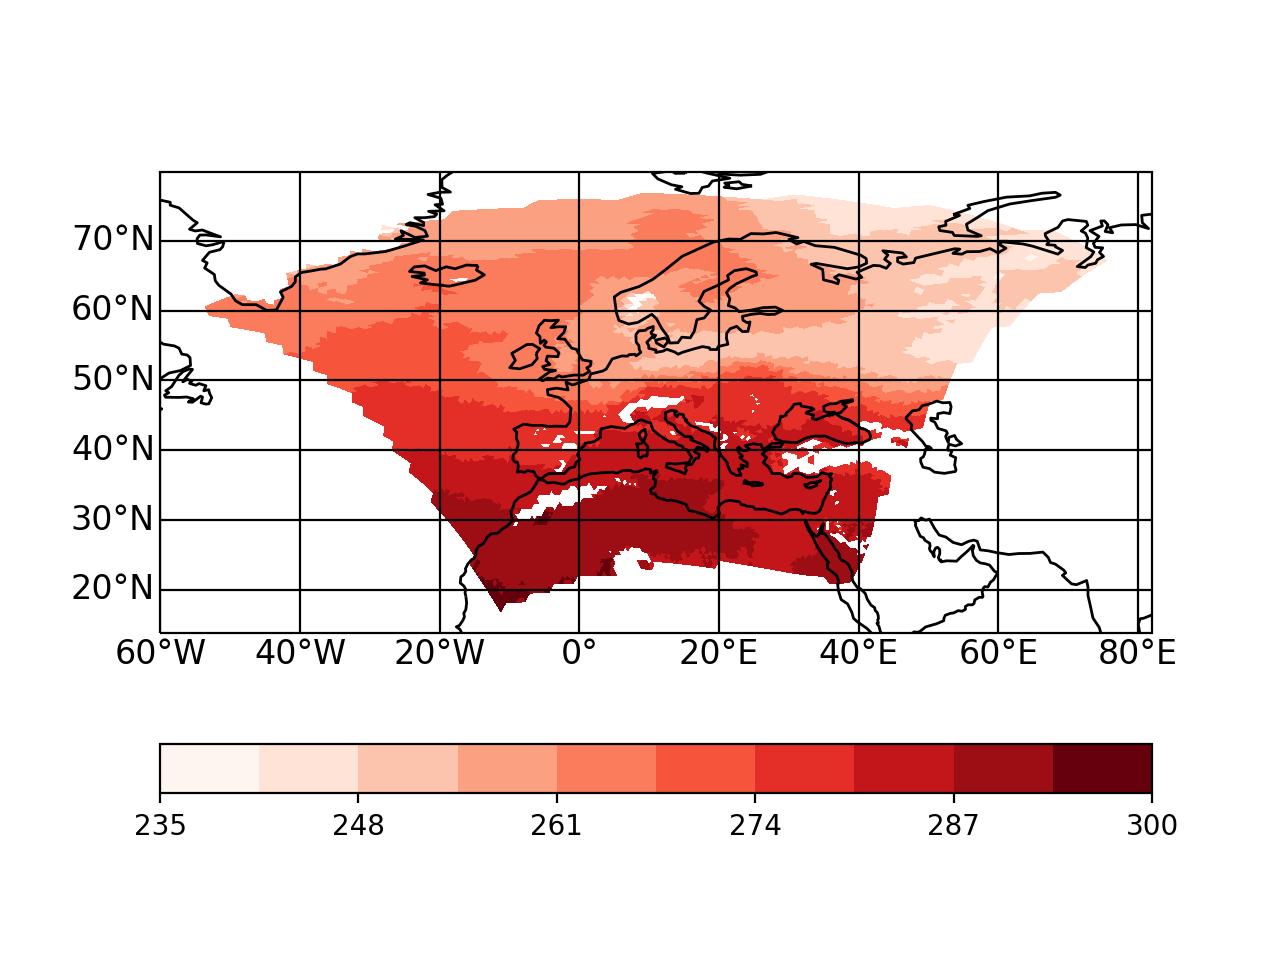
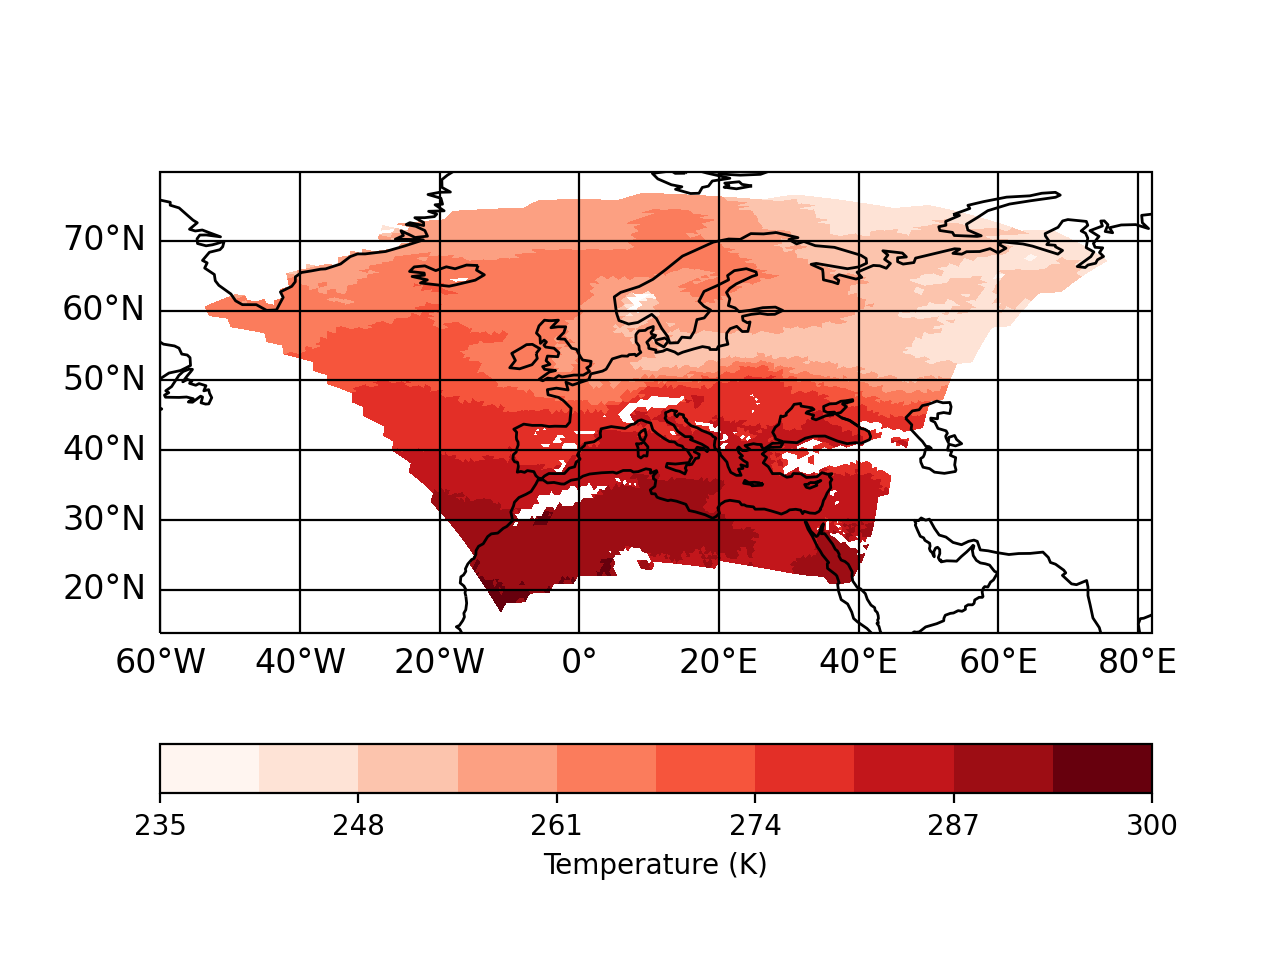
Add labels to transect plots

diff --git a/transect/plot_icon_transects.py b/transect/plot_icon_transects.py
@@ -35,7 +35,8 @@ if __name__ == "__main__":
     new_ds.psy.plot.horizontal_maptransect(name="temp",
                                            transect=1000,
                                            cmap="Reds",
-                                           decoder={"z": {"HHL"}})
+                                           decoder={"z": {"HHL"}},
+                                           clabel="Temperature (K)")
 
     sp = new_ds.psy.plot.vertical_maptransect(
         name="temp",
@@ -45,7 +46,8 @@ if __name__ == "__main__":
         decoder={"z": {"HHL"}},
         ylim=(0, 6000),
         yticks=np.linspace(0, 6000, 7),
-    )
+        clabel="Temperature (K)"
+        )
 
     ax = sp.plotters[0].ax
     ax.set_ylim(0, 6000)
